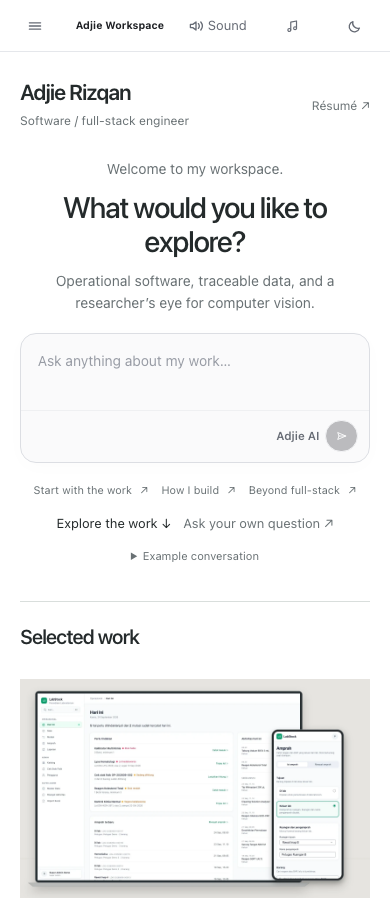
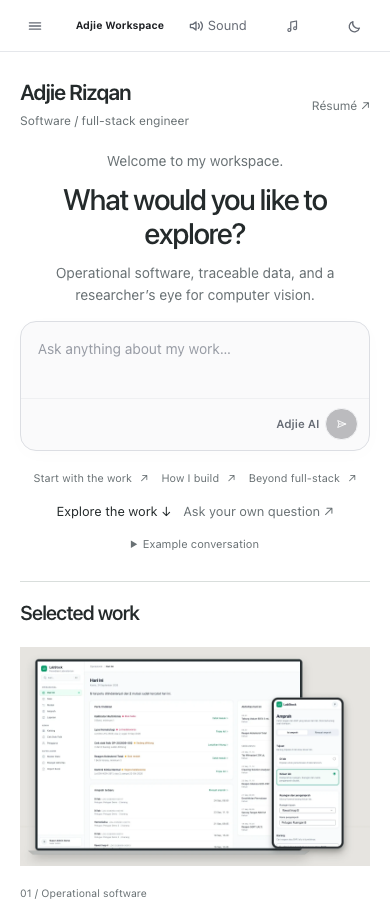
fix: keep Home evidence visible on narrow WebKit viewports

diff --git a/components/workspace/home.css b/components/workspace/home.css
@@ -228,14 +228,16 @@
   .home-intro h1 {
     font-size: 1.35rem;
   }
-  .home-start { margin-top: 28px; }
+  .home-start { margin-top: 20px; }
   .home-start h2 { font-size: 1.85rem; }
-  .home-positioning { font-size: .76rem; margin-bottom: 18px; }
+  .home-positioning { font-size: .76rem; margin-bottom: 14px; }
   .home-start .aw-composer-tools > div:first-child { display: none; }
   .home-starters { gap: 2px 13px; margin-top: 12px; }
   .home-starters button { font-size: .68rem; }
   .home-intro-actions { gap: 12px; font-size: .69rem; margin-top: 10px; }
   .home-example { margin-top: 12px; }
+  .home-selected { margin-top: 24px; }
+  .home-selected > header { padding-top: 16px; margin-bottom: 20px; }
   .home-prompt, .home-reply { grid-template-columns: 1fr; gap: 5px; }
   .home-ask {
     display: block;

diff --git a/docs/design/WORKSPACE_V2_PROJECT_PRESENTATION.md b/docs/design/WORKSPACE_V2_PROJECT_PRESENTATION.md
@@ -22,7 +22,7 @@ Shared CSS tokens: fast 120ms, normal 220ms, slow 360ms; easing cubic-bezier(.2,
 
 One signature interaction: the user can trace source → validation → ledger → output. Stages receive sequential emphasis and connectors progress. Everything is already visible before activation. No looping or autoplay. Reduced motion hides the optional trigger, skips View Transitions and removes shared animation. Complete labels, movement types and correction/repeat-import branches remain visible.
 
-LabStock has no fake prompt, response stream, Replay Demo, or content timer. Ask AI is a separate user-initiated action.
+Owner correction, 7 October 2026: all six projects intentionally use a transparent scripted prompt → answer opener. See [AI start screen and project prompts](../project-intros/DESIGN.md), which supersedes the earlier blanket removal of project conversations. Do not remove this interaction identity as “fake conversation.” Simulated visitor authorship, artificial inference, timer-created facts and the old Replay Demo architecture remain prohibited. The full prompt, answer and study exist in initial HTML; automatic presentation is silent, skippable, and disabled for reduced motion. Real Ask AI remains a separate user-initiated action.
 
 ## Sound
 

diff --git a/docs/project-intros/DESIGN.md b/docs/project-intros/DESIGN.md
@@ -39,3 +39,5 @@ Screenshots are under `docs/project-intros/screenshots/`. Full matrices are loca
 Local results: 37 portfolio tests + 12 Worker tests passed; lint, TypeScript, build and six-route static checks passed. The public text scan covered 103 files. The responsive matrix covered 56 route/viewport/browser combinations with zero overflow, broken images or console/page errors. Existing shell suites passed in both engines. No public media changed, and the generated AI context is byte-identical to the baseline.
 
 Visual review covered the four primary project openings, desktop/tablet/phone Home, 320 px layouts, dark Home, the typing midpoint and reduced-motion state. The question has balanced line wrapping; product heroes retain their existing composition. Only the opening header participates in the evidence transition, avoiding animation of the entire long case study.
+
+CI caught the first project image 2 px beyond the 760 px Home evidence threshold in Linux WebKit at 320 px. Mobile spacing was reduced by 32 px; the assertion was retained unchanged. The older presentation addendum now explicitly records the owner’s restored project-conversation decision.
